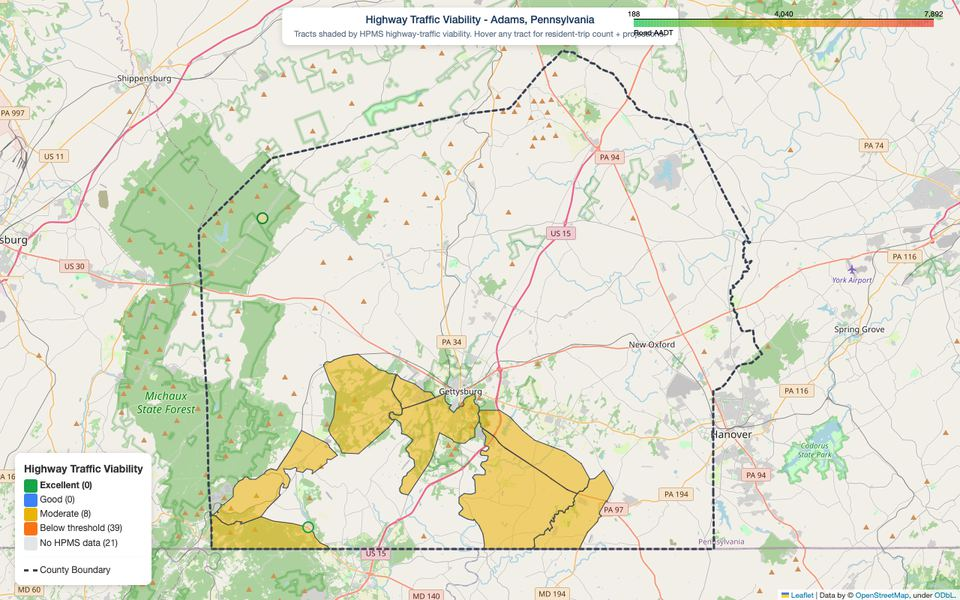
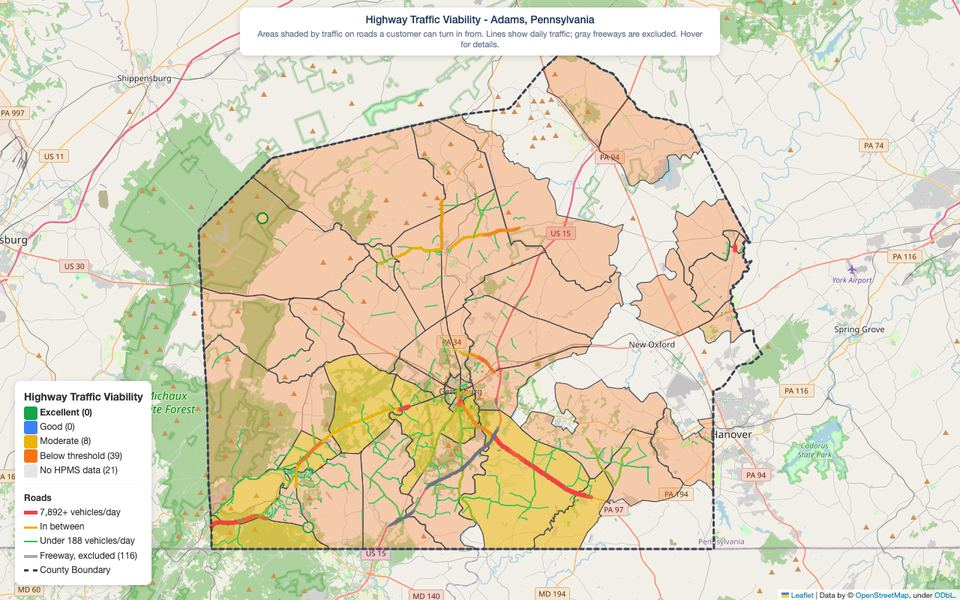
Open the coverage examples in popups with revenue charts
Each analysis card has a View example button that opens its sample in a
dialog. Revenue Projections pages through four revenue charts, and the
traffic example shows road volumes and excluded freeways.

diff --git a/index.html b/index.html
@@ -458,11 +458,66 @@
             margin-bottom: 6px;
         }
 
-        .demo {
-            margin: 14px 0 0;
+        .demo-cta {
+            margin-top: 14px;
         }
 
-        .demo img {
+        .demo-open {
+            font: 600 0.82rem Helvetica, Arial, sans-serif;
+            letter-spacing: 0.4px;
+            color: var(--primary);
+            background: var(--white);
+            border: 1px solid var(--primary);
+            border-radius: 4px;
+            padding: 7px 14px;
+            cursor: pointer;
+        }
+
+        .demo-open:hover {
+            background: var(--primary);
+            color: var(--white);
+        }
+
+        .demo-dialog {
+            margin: auto;  /* the global reset zeroes the dialog's default centering */
+            width: min(960px, 94vw);
+            max-height: 92vh;
+            border: none;
+            border-radius: 10px;
+            padding: 22px 24px 18px;
+            box-shadow: 0 20px 60px rgba(15, 23, 42, 0.35);
+        }
+
+        .demo-dialog::backdrop {
+            background: rgba(15, 23, 42, 0.6);
+        }
+
+        .demo-dialog-head {
+            display: flex;
+            align-items: center;
+            justify-content: space-between;
+            gap: 16px;
+            margin-bottom: 14px;
+        }
+
+        .demo-dialog-head h3 {
+            font-size: 1.2rem;
+            color: var(--primary);
+        }
+
+        .demo-close {
+            width: 34px;
+            height: 34px;
+            border: 1px solid var(--border);
+            border-radius: 50%;
+            background: var(--white);
+            color: var(--text-medium);
+            font-size: 20px;
+            line-height: 1;
+            cursor: pointer;
+        }
+
+        .demo-dialog > img {
             display: block;
             width: 100%;
             height: auto;
@@ -470,16 +525,77 @@
             border-radius: 6px;
         }
 
-        .demo figcaption {
-            margin-top: 8px;
-            font-size: 0.82rem;
+        .demo-dialog-note {
+            margin-top: 12px;
+            font-size: 0.85rem;
             color: var(--text-medium);
         }
 
-        .demo figcaption strong {
-            font-size: 1.15rem;
+        .slider-track {
+            display: flex;
+            overflow-x: auto;
+            scroll-snap-type: x mandatory;
+            scroll-behavior: smooth;
+            scrollbar-width: none;
+            border: 1px solid var(--border-light);
+            border-radius: 6px;
+        }
+
+        .slider-track::-webkit-scrollbar {
+            display: none;
+        }
+
+        .slider-track > img {
+            flex: 0 0 100%;
+            width: 100%;
+            height: auto;
+            scroll-snap-align: center;
+        }
+
+        .slider-nav {
+            display: flex;
+            align-items: center;
+            justify-content: center;
+            gap: 14px;
+            margin-top: 12px;
+        }
+
+        .slider-prev, .slider-next {
+            width: 34px;
+            height: 34px;
+            border: 1px solid var(--border);
+            border-radius: 50%;
+            background: var(--white);
             color: var(--primary);
-            margin-right: 4px;
+            font-size: 18px;
+            line-height: 1;
+            cursor: pointer;
+        }
+
+        .slider-dots {
+            display: flex;
+            gap: 8px;
+        }
+
+        .slider-dot {
+            width: 9px;
+            height: 9px;
+            padding: 0;
+            border: 0;
+            border-radius: 50%;
+            background: #c3c2b7;
+            cursor: pointer;
+        }
+
+        .slider-dot[aria-current="true"] {
+            background: var(--primary);
+        }
+
+        .slider-count {
+            font-size: 0.82rem;
+            color: var(--text-light);
+            min-width: 3.2em;
+            text-align: center;
         }
 
         .numbered-item .body p {
@@ -1280,7 +1396,7 @@
             <div class="container">
                 <h2>What our analysis delivers</h2>
                 <div class="section-eyebrow">II. Coverage</div>
-                <p class="section-lede">Eight ways we evaluate every site, all built on real data. The examples below come from a sample analysis of Adams County, Pennsylvania.</p>
+                <p class="section-lede">Eight ways we evaluate every site, all built on real data. Select <em>View example</em> on any card to see sample output from an analysis of Adams County, Pennsylvania.</p>
 
                 <div class="grid-2">
                     <div class="numbered-item">
@@ -1288,10 +1404,7 @@
                         <div class="body">
                             <h3>Location Ranking</h3>
                             <p>Ranks the neighborhoods in your target area by traffic, how well residents match your customers, and how crowded the competition is, so the strongest options rise to the top.</p>
-                            <figure class="demo">
-                                <img src="demo/01-location-ranking.jpg" alt="Map of Adams County, PA block groups shaded by opportunity zone, from recommended to high competition" loading="lazy" width="960" height="600">
-                                <figcaption><strong>68</strong> block groups ranked</figcaption>
-                            </figure>
+                            <div class="demo-cta"><button type="button" class="demo-open" data-demo="demo-01">View example</button></div>
                         </div>
                     </div>
 
@@ -1300,10 +1413,7 @@
                         <div class="body">
                             <h3>Customer Profile Analysis</h3>
                             <p>A profile of who lives near the site - population, income, age, vehicles, and commutes - and how closely they match the customers your business depends on.</p>
-                            <figure class="demo">
-                                <img src="demo/02-customer-profile.jpg" alt="Map of Adams County, PA block groups shaded by share of residents with a 30+ minute commute" loading="lazy" width="960" height="600">
-                                <figcaption><strong>83%</strong> drive alone in the strongest commuter area</figcaption>
-                            </figure>
+                            <div class="demo-cta"><button type="button" class="demo-open" data-demo="demo-02">View example</button></div>
                         </div>
                     </div>
 
@@ -1312,10 +1422,7 @@
                         <div class="body">
                             <h3>Traffic &amp; Demand Analysis</h3>
                             <p>Daily traffic from official federal counts on nearby roads a customer can actually turn in from (freeways excluded), plus local signs of how busy the area is.</p>
-                            <figure class="demo">
-                                <img src="demo/03-traffic-demand.jpg" alt="Map of Adams County, PA block groups shaded by traffic on roads a customer can turn in from" loading="lazy" width="960" height="600">
-                                <figcaption><strong>1,861</strong> road segments with federal counts; 116 freeway segments excluded</figcaption>
-                            </figure>
+                            <div class="demo-cta"><button type="button" class="demo-open" data-demo="demo-03">View example</button></div>
                         </div>
                     </div>
 
@@ -1324,10 +1431,7 @@
                         <div class="body">
                             <h3>Revenue Projections</h3>
                             <p>Expected, best-case, and worst-case revenue for the site, built from your operating costs and local demand, so you see the realistic range before committing.</p>
-                            <figure class="demo">
-                                <img src="demo/04-revenue-projections.jpg" alt="Charts of revenue distribution, revenue versus site score, daily customers by scenario, and profit margin for Adams County, PA" loading="lazy" width="960" height="684">
-                                <figcaption><strong>3</strong> revenue scenarios for every block group</figcaption>
-                            </figure>
+                            <div class="demo-cta"><button type="button" class="demo-open" data-demo="demo-04">View example</button></div>
                         </div>
                     </div>
 
@@ -1336,10 +1440,7 @@
                         <div class="body">
                             <h3>Risk Assessment</h3>
                             <p>Simulates thousands of outcomes for traffic, customer capture, and ticket price to estimate the chance the site loses money, so you know the downside before you sign.</p>
-                            <figure class="demo">
-                                <img src="demo/05-risk-assessment.jpg" alt="Map of Adams County, PA block groups ranked by simulated probability of loss" loading="lazy" width="960" height="600">
-                                <figcaption><strong>5,000</strong> simulations per block group</figcaption>
-                            </figure>
+                            <div class="demo-cta"><button type="button" class="demo-open" data-demo="demo-05">View example</button></div>
                         </div>
                     </div>
 
@@ -1348,10 +1449,7 @@
                         <div class="body">
                             <h3>Competitive Mapping</h3>
                             <p>Maps known competitors near the site and shows how much they overlap with the area your customers would come from.</p>
-                            <figure class="demo">
-                                <img src="demo/06-competitive-mapping.jpg" alt="Map of existing car washes and candidate areas in Adams County, PA, with road traffic" loading="lazy" width="960" height="600">
-                                <figcaption><strong>26</strong> car washes mapped in the county</figcaption>
-                            </figure>
+                            <div class="demo-cta"><button type="button" class="demo-open" data-demo="demo-06">View example</button></div>
                         </div>
                     </div>
 
@@ -1360,10 +1458,7 @@
                         <div class="body">
                             <h3>Causal Impact Analysis</h3>
                             <p>Estimates how much new revenue a wash would actually add, based on how car wash markets in comparable counties changed over a decade, with a likely range instead of a single guess.</p>
-                            <figure class="demo">
-                                <img src="demo/07-causal-impact.jpg" alt="Map of Adams County, PA block groups shaded by estimated incremental revenue opportunity" loading="lazy" width="960" height="600">
-                                <figcaption><strong>89</strong> comparison counties, 2012-2023</figcaption>
-                            </figure>
+                            <div class="demo-cta"><button type="button" class="demo-open" data-demo="demo-07">View example</button></div>
                         </div>
                     </div>
 
@@ -1373,15 +1468,78 @@
                         <div class="body">
                             <h3>Zoning &amp; Feasibility Screening</h3>
                             <p>A quick check of each site for flood risk, wetlands, steep land, access from a main road, old underground fuel tanks, and zoning where the county publishes a zoning map. Flags problem sites before you pay for inspections; it doesn't replace a call to the planning office.</p>
-                            <figure class="demo">
-                                <img src="demo/08-zoning-feasibility.jpg" alt="Map of candidate sites in Adams County, PA colored by number of feasibility red flags" loading="lazy" width="960" height="600">
-                                <figcaption><strong>13</strong> sites screened; 8 carry a red flag</figcaption>
-                            </figure>
+                            <div class="demo-cta"><button type="button" class="demo-open" data-demo="demo-08">View example</button></div>
                         </div>
                     </div>
                 </div>
             </div>
         </section>
+
+        <dialog class="demo-dialog" id="demo-01" aria-labelledby="demo-01-title">
+            <div class="demo-dialog-head">
+                <h3 id="demo-01-title">Location Ranking</h3>
+                <button type="button" class="demo-close" aria-label="Close">&times;</button>
+            </div>
+            <img src="demo/01-location-ranking.jpg" alt="Map of Adams County, PA block groups shaded by opportunity zone, from recommended to high competition" loading="lazy" width="960" height="600">
+            <p class="demo-dialog-note"><strong>68</strong> block groups ranked &middot; Sample analysis of Adams County, Pennsylvania</p>
+        </dialog>
+        <dialog class="demo-dialog" id="demo-02" aria-labelledby="demo-02-title">
+            <div class="demo-dialog-head">
+                <h3 id="demo-02-title">Customer Profile Analysis</h3>
+                <button type="button" class="demo-close" aria-label="Close">&times;</button>
+            </div>
+            <img src="demo/02-customer-profile.jpg" alt="Map of Adams County, PA block groups shaded by share of residents with a 30+ minute commute" loading="lazy" width="960" height="600">
+            <p class="demo-dialog-note"><strong>83%</strong> drive alone in the strongest commuter area &middot; Sample analysis of Adams County, Pennsylvania</p>
+        </dialog>
+        <dialog class="demo-dialog" id="demo-03" aria-labelledby="demo-03-title">
+            <div class="demo-dialog-head">
+                <h3 id="demo-03-title">Traffic &amp; Demand Analysis</h3>
+                <button type="button" class="demo-close" aria-label="Close">&times;</button>
+            </div>
+            <img src="demo/03-traffic-demand.jpg" alt="Map of Adams County, PA block groups shaded by traffic on roads a customer can turn in from" loading="lazy" width="960" height="600">
+            <p class="demo-dialog-note"><strong>1,861</strong> road segments with federal counts; 116 freeway segments excluded &middot; Sample analysis of Adams County, Pennsylvania</p>
+        </dialog>
+        <dialog class="demo-dialog" id="demo-04" aria-labelledby="demo-04-title">
+            <div class="demo-dialog-head">
+                <h3 id="demo-04-title">Revenue Projections</h3>
+                <button type="button" class="demo-close" aria-label="Close">&times;</button>
+            </div>
+            <div class="slider" role="region" aria-roledescription="carousel" aria-label="Revenue projection charts" tabindex="0"><div class="slider-track"><img src="demo/04-revenue-1.jpg" alt="Annual revenue distribution across block groups, with median and break-even" loading="lazy" width="1200" height="750"><img src="demo/04-revenue-2.jpg" alt="Annual revenue against site score, colored by capacity utilization" loading="lazy" width="1200" height="750"><img src="demo/04-revenue-3.jpg" alt="Average daily customers by scenario against break-even" loading="lazy" width="1200" height="750"><img src="demo/04-revenue-4.jpg" alt="Profit margin distribution, profitable and unprofitable block groups" loading="lazy" width="1200" height="750"></div><div class="slider-nav"><button type="button" class="slider-prev" aria-label="Previous chart">&#8249;</button><div class="slider-dots"><button type="button" class="slider-dot" aria-label="Chart 1"></button><button type="button" class="slider-dot" aria-label="Chart 2"></button><button type="button" class="slider-dot" aria-label="Chart 3"></button><button type="button" class="slider-dot" aria-label="Chart 4"></button></div><span class="slider-count"></span><button type="button" class="slider-next" aria-label="Next chart">&#8250;</button></div></div>
+            <p class="demo-dialog-note"><strong>3</strong> revenue scenarios for every block group &middot; Sample analysis of Adams County, Pennsylvania</p>
+        </dialog>
+        <dialog class="demo-dialog" id="demo-05" aria-labelledby="demo-05-title">
+            <div class="demo-dialog-head">
+                <h3 id="demo-05-title">Risk Assessment</h3>
+                <button type="button" class="demo-close" aria-label="Close">&times;</button>
+            </div>
+            <img src="demo/05-risk-assessment.jpg" alt="Map of Adams County, PA block groups ranked by simulated probability of loss" loading="lazy" width="960" height="600">
+            <p class="demo-dialog-note"><strong>5,000</strong> simulations per block group &middot; Sample analysis of Adams County, Pennsylvania</p>
+        </dialog>
+        <dialog class="demo-dialog" id="demo-06" aria-labelledby="demo-06-title">
+            <div class="demo-dialog-head">
+                <h3 id="demo-06-title">Competitive Mapping</h3>
+                <button type="button" class="demo-close" aria-label="Close">&times;</button>
+            </div>
+            <img src="demo/06-competitive-mapping.jpg" alt="Map of existing car washes and candidate areas in Adams County, PA, with road traffic" loading="lazy" width="960" height="600">
+            <p class="demo-dialog-note"><strong>26</strong> car washes mapped in the county &middot; Sample analysis of Adams County, Pennsylvania</p>
+        </dialog>
+        <dialog class="demo-dialog" id="demo-07" aria-labelledby="demo-07-title">
+            <div class="demo-dialog-head">
+                <h3 id="demo-07-title">Causal Impact Analysis</h3>
+                <button type="button" class="demo-close" aria-label="Close">&times;</button>
+            </div>
+            <img src="demo/07-causal-impact.jpg" alt="Map of Adams County, PA block groups shaded by estimated incremental revenue opportunity" loading="lazy" width="960" height="600">
+            <p class="demo-dialog-note"><strong>89</strong> comparison counties, 2012-2023 &middot; Sample analysis of Adams County, Pennsylvania</p>
+        </dialog>
+        <dialog class="demo-dialog" id="demo-08" aria-labelledby="demo-08-title">
+            <div class="demo-dialog-head">
+                <h3 id="demo-08-title">Zoning &amp; Feasibility Screening</h3>
+                <button type="button" class="demo-close" aria-label="Close">&times;</button>
+            </div>
+            <img src="demo/08-zoning-feasibility.jpg" alt="Map of candidate sites in Adams County, PA colored by number of feasibility red flags" loading="lazy" width="960" height="600">
+            <p class="demo-dialog-note"><strong>13</strong> sites screened; 8 carry a red flag &middot; Sample analysis of Adams County, Pennsylvania</p>
+        </dialog>
+
 
 
         
@@ -1770,6 +1928,56 @@
             });
         }
     })();
+    </script>
+
+    <script>
+        // Sample-analysis popups. Sliders measure their width, so initialize
+        // them when their dialog opens.
+        function initSliders(root) {
+            root.querySelectorAll('.slider').forEach(function (slider) {
+                var track = slider.querySelector('.slider-track');
+                var slides = track.children;
+                var dots = slider.querySelectorAll('.slider-dot');
+                var count = slider.querySelector('.slider-count');
+                function index() { return track.clientWidth ? Math.round(track.scrollLeft / track.clientWidth) : 0; }
+                function go(i) {
+                    i = Math.max(0, Math.min(slides.length - 1, i));
+                    track.scrollTo({left: i * track.clientWidth, behavior: 'smooth'});
+                }
+                function sync() {
+                    var i = index();
+                    dots.forEach(function (d, j) { d.setAttribute('aria-current', i === j ? 'true' : 'false'); });
+                    count.textContent = (i + 1) + ' / ' + slides.length;
+                }
+                if (!slider.dataset.ready) {
+                    slider.querySelector('.slider-prev').addEventListener('click', function () { go(index() - 1); });
+                    slider.querySelector('.slider-next').addEventListener('click', function () { go(index() + 1); });
+                    dots.forEach(function (d, j) { d.addEventListener('click', function () { go(j); }); });
+                    track.addEventListener('scroll', function () { window.requestAnimationFrame(sync); });
+                    slider.addEventListener('keydown', function (e) {
+                        if (e.key === 'ArrowLeft') { go(index() - 1); }
+                        if (e.key === 'ArrowRight') { go(index() + 1); }
+                    });
+                    slider.dataset.ready = 'true';
+                }
+                sync();
+            });
+        }
+        document.querySelectorAll('[data-demo]').forEach(function (button) {
+            button.addEventListener('click', function () {
+                var dialog = document.getElementById(button.dataset.demo);
+                dialog.showModal();
+                initSliders(dialog);
+            });
+        });
+        document.querySelectorAll('.demo-dialog').forEach(function (dialog) {
+            dialog.querySelector('.demo-close').addEventListener('click', function () { dialog.close(); });
+            dialog.addEventListener('click', function (e) {
+                var r = dialog.getBoundingClientRect();
+                var outside = e.clientX < r.left || e.clientX > r.right || e.clientY < r.top || e.clientY > r.bottom;
+                if (e.target === dialog && outside) { dialog.close(); }
+            });
+        });
     </script>
 </body>
 </html>
